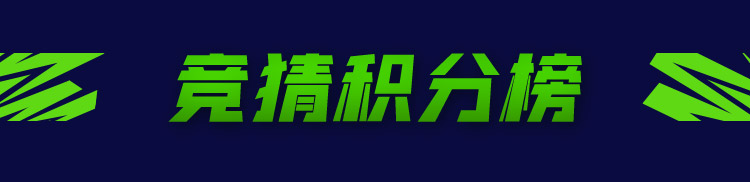
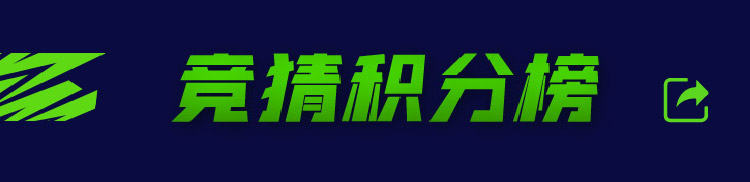
style:头图修改

diff --git a/src/pages/list/index.vue b/src/pages/list/index.vue
@@ -3,7 +3,7 @@
     <main class="list">
       <div>
         <img src="/images/list_title.jpg" alt="" />
-        <img class="share" src="@assets/images/share.png" alt="" @click="show = true" />
+        <div class="share" @click="show = true" />
       </div>
       <div class="list-group">
         <div class="list-group-title">

diff --git a/src/pages/list/index.scss b/src/pages/list/index.scss
@@ -5,10 +5,10 @@
   box-sizing: border-box;
   .share{
     position: absolute;
-    top: 130px;
-    right: 50px;
-    width: 40px;
-    height: 40px;
+    top: 80px;
+    right: 44px;
+    width: 50px;
+    height: 50px;
   }
   .list {
     &-group {
